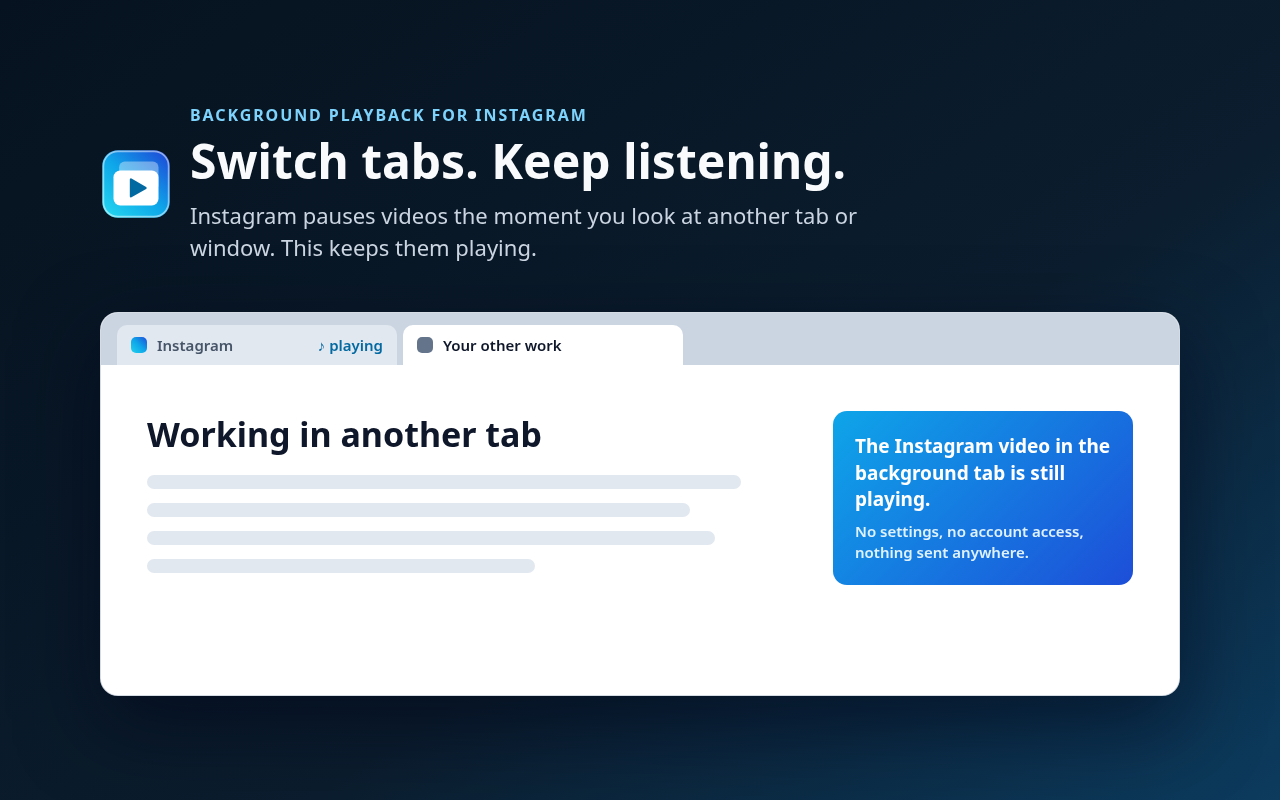
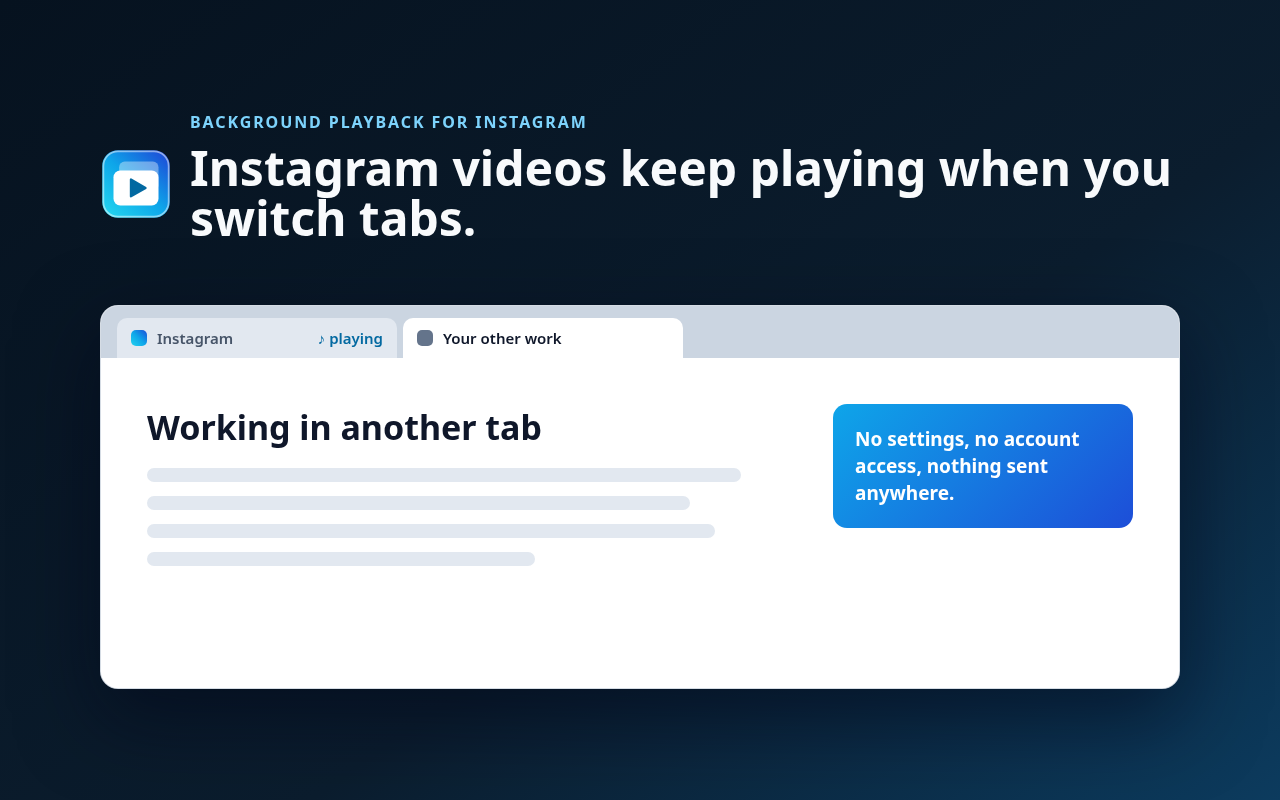
Cut README and store image text that answers no question a user has

diff --git a/store-assets/screenshot-demo.html b/store-assets/screenshot-demo.html
@@ -101,14 +101,6 @@
         font-weight: 700;
         line-height: 1.4;
       }
-
-      .note small {
-        display: block;
-        margin-top: 8px;
-        color: #e0f2fe;
-        font-size: 15px;
-        font-weight: 600;
-      }
     </style>
   </head>
   <body>
@@ -117,11 +109,7 @@
         <img src="../icons/icon.svg" alt="" />
         <div>
           <p class="eyebrow">Background Playback for Instagram</p>
-          <h1>Switch tabs. Keep listening.</h1>
-          <p class="subtitle">
-            Instagram pauses videos the moment you look at another tab or window. This keeps them
-            playing.
-          </p>
+          <h1>Instagram videos keep playing when you switch tabs.</h1>
         </div>
       </div>
 
@@ -140,10 +128,7 @@
             <div class="line" style="width: 88%"></div>
             <div class="line" style="width: 60%"></div>
           </div>
-          <div class="note">
-            The Instagram video in the background tab is still playing.
-            <small>No settings, no account access, nothing sent anywhere.</small>
-          </div>
+          <div class="note">No settings, no account access, nothing sent anywhere.</div>
         </div>
       </section>
     </main>

diff --git a/store-assets/listing.css b/store-assets/listing.css
@@ -52,11 +52,3 @@ h1 {
   font-size: 48px;
   line-height: 1.05;
 }
-
-.subtitle {
-  max-width: 680px;
-  margin-bottom: 0;
-  color: #cbd5e1;
-  font-size: 22px;
-  line-height: 1.45;
-}

diff --git a/README.md b/README.md
@@ -18,27 +18,19 @@ Move the pointer over a video and the controls appear along its bottom edge:
   part shows what has loaded.
 - **Play/pause** and the **time** (position / length) on the left.
 - **Volume** on the right: click to mute or unmute, or hover it and drag the slider that
-  pops up. Sliding it to the bottom mutes the video. The volume you pick stays for every
-  video until you reload the page.
+  pops up. The volume you pick stays for every video until you reload the page.
 - **Settings** (gear): **Video quality**, either Auto or one of the resolutions Instagram
-  has for that video, read from Instagram's player for each video. The gear only appears
-  when there is more than one. A new choice shows within a few seconds (3–9 s in testing)
-  without interrupting playback. On a looping reel, the part already played before the
-  change keeps the old resolution on later loops.
+  has for that video. The gear only appears when there is more than one. A new choice
+  shows within a few seconds. On a looping reel, the part already played before the change
+  keeps the old resolution on later loops.
 - **Picture-in-picture** and **full screen**.
 
 While the controls show, Instagram's own mute and tagged-people buttons in the bottom
-corners are hidden under them. On narrow videos the controls drop the time first, then
-settings, picture-in-picture and full screen, so nothing overlaps. The controls hide 2.5
-seconds after the pointer stops moving over the video.
+corners are hidden under them. On narrow videos the controls leave out the time, then
+settings, picture-in-picture and full screen. The controls hide 2.5 seconds after the
+pointer stops moving over the video.
 
-Only a video you can see gets the controls. A video hidden under a solid part of the page,
-like the home feed under a reel opened from it, gets none, and so does a video whose bottom
-edge is under a bar across the page.
-
-On stories the controls sit above the reply box and the like and share buttons, so those
-stay visible and clickable. The space between the controls and the reply box is the same
-as the space below the reply box.
+A video whose bottom edge is under a bar across the page gets no controls.
 
 ## Sound on by default
 
@@ -50,7 +42,7 @@ muted until you unmute or reload the page.
 
 ## Install in Chrome
 
-To install it from this repository, which takes about a minute:
+To install it from this repository:
 
 1. Download or copy this folder somewhere you will keep it.
 2. In Chrome, type `chrome://extensions` in the address bar and press Enter.
@@ -95,8 +87,7 @@ would show only once that ran out, which for a reel looping from a full buffer i
 `src/media-source-registry.js` runs before Instagram's scripts and records which
 `MediaSource` and `SourceBuffer`s back each video. After a quality change the controls
 remove the video buffered more than four seconds ahead of the playhead, and Instagram
-refetches it at the new quality. Keeping less than that, or also removing video behind
-the playhead, froze the picture for a few seconds and skipped footage in testing.
+refetches it at the new quality.
 
 All three scripts run only on `https://www.instagram.com/*`, and the extension needs no
 permissions.
@@ -110,7 +101,6 @@ permissions.
   open in a background tab, Instagram may treat new messages as seen, as it would if the
   tab were in front. Stories open in a background tab keep moving on to the next one, so
   Instagram may mark them as seen too.
-- Instagram can change its player code at any time, which may stop this working.
 
 ## Development
 
